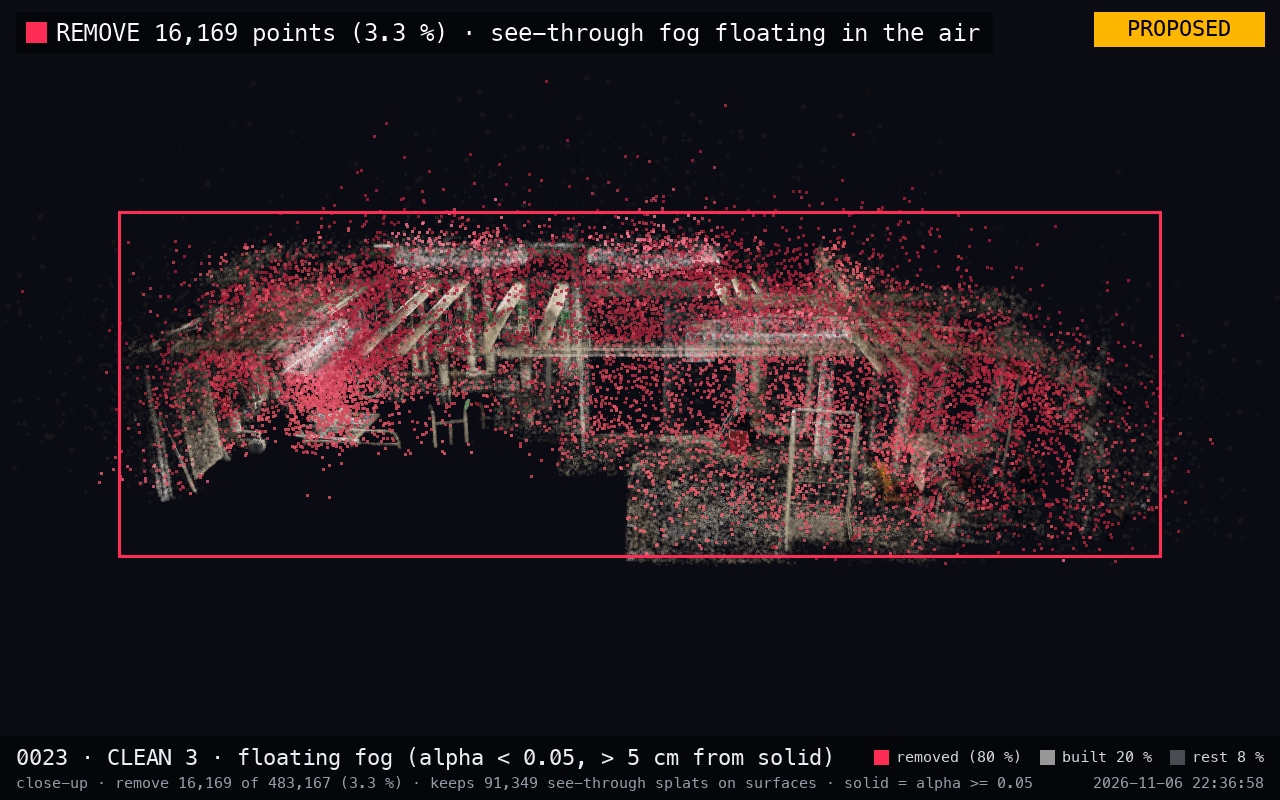
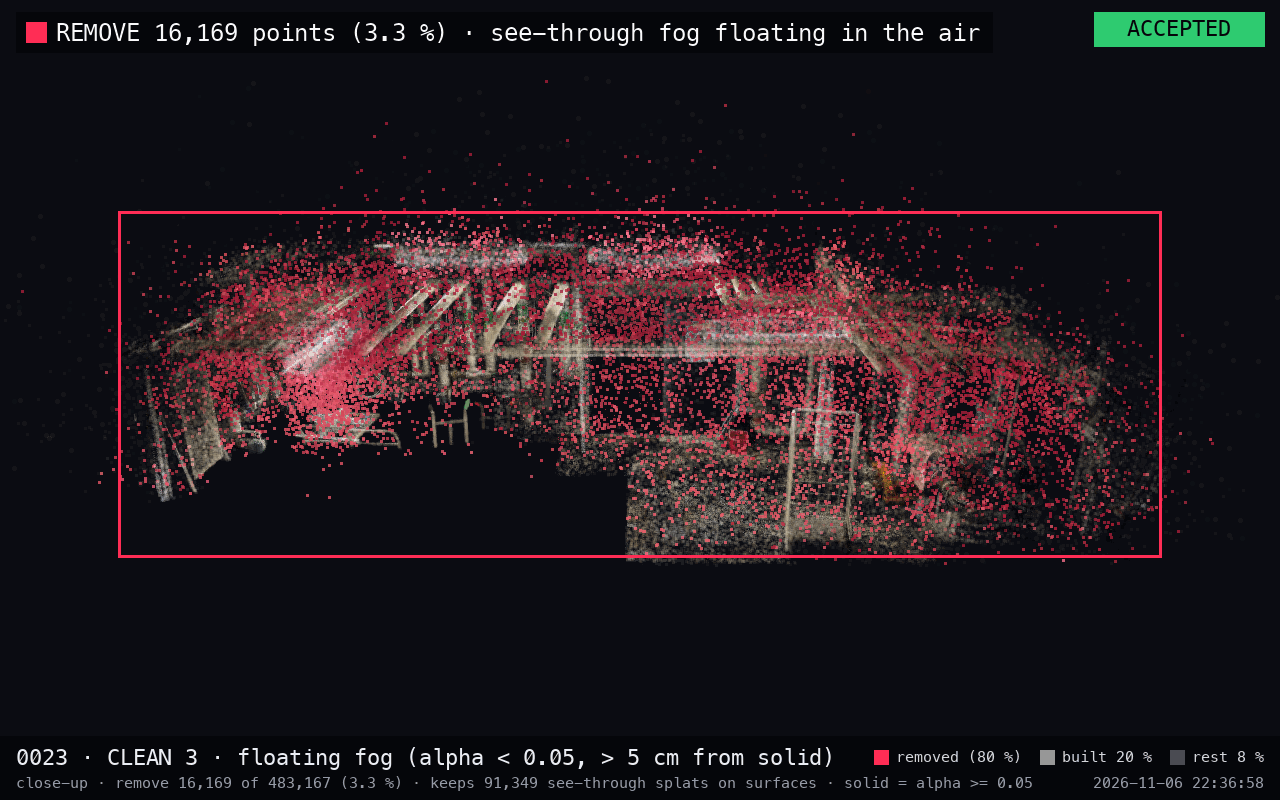
[pipe] 100 % progress images after every decision; CLEAN 3 accepted (state 0027-0028)
User: after every accept/reject, one clear picture with everything at 100 %
in true colour so the progress is visible; more images are better.
- build.state_images(): after each accept or reject, render all kept points
  (built parts + pool) at 100 % (nearest point wins) from the fixed outside
  camera and from the START front camera; once parts exist, also the built
  3D world (current.ply) alone. Recorded as 'state' steps.
- CLEAN 3 (floating fog) accepted: 16,169 removed, pool 466,998.

Changed region(s): [[0.8438, 0.0, 1.0, 0.0625]]

diff --git a/pipeline/build.py b/pipeline/build.py
@@ -300,6 +300,41 @@ def write_current(splats: np.ndarray, m: S.Manifest) -> int:
     return len(rows)
 
 
+STATE_RGB = (90, 160, 255)
+
+
+def state_images(splats: np.ndarray, m: S.Manifest, event: str) -> list[str]:
+    """Progress pictures after a decision, everything at 100 % opacity in true colour (nearest point wins):
+    the whole kept scan (built parts + pool) from the fixed outside camera and from the START front camera, and
+    once parts exist the built 3D world (current.ply) alone from outside. Recorded as a 'state' step."""
+    bmin, bmax = _bounds(m)
+    built = m.claimed_indices()
+    kept = np.concatenate([built, np.flatnonzero(m.pool_mask()).astype(np.uint32)])
+    start_cam = R.Camera(**{k: tuple(v) if isinstance(v, list) else v
+                            for k, v in m.data["steps"][0]["camera"].items()}) if "camera" in m.data["steps"][0] \
+        else R.overview_camera(bmin, bmax)
+    n_parts, n_clean = len(m.data["parts"]), len(m.data["removed"])
+    facts = f"{len(kept):,} points kept · {n_clean} cleanings · {n_parts} parts ({len(built):,} points in current.ply)"
+    views = [("kept scan, outside", R.outside_camera(bmin, bmax), kept),
+             ("kept scan, front (START camera)", start_cam, kept)]
+    if len(built):
+        views.append(("built 3D world = current.ply, outside", R.outside_camera(bmin, bmax), built))
+    images = []
+    for view, cam, idx in views:
+        sub = splats[idx]
+        frame = R.render([R.Layer(xyz_of(sub), rgb_of(sub), view, size_of(sub))], cam, R.WIDTH, R.HEIGHT - R.BANNER_H,
+                         edl_strength=0.5)
+        when = S.now_local()
+        index = S.next_image_index()
+        im = R.compose(frame, f"{index:04d} · STATE · {event}", f"{view} · 100 % · {facts}", [], when, "STATE",
+                       STATE_RGB)
+        images.append(S.rel(_save(im, index, when)))
+    m.add_step(index=int(Path(images[0]).name[:4]), kind="state", name="progress", status="info", images=images,
+               created_at=S.now_local().isoformat(timespec="seconds"), event=event, kept=len(kept),
+               built=len(built))
+    return images
+
+
 def cmd_decide(args: argparse.Namespace) -> int:
     if not S.PENDING.exists():
         log.error("nothing pending")
@@ -331,8 +366,13 @@ def cmd_decide(args: argparse.Namespace) -> int:
     S.PENDING.unlink()
     m.save()
     pool = int(m.pool_mask().sum())
-    print(f"{pending['index']:04d} {'ACCEPTED' if accept else 'REJECTED'} {pending['kind']}/{pending['name']}"
-          f" · pool now {pool:,} points")
+    word = "ACCEPTED" if accept else "REJECTED"
+    print(f"{pending['index']:04d} {word} {pending['kind']}/{pending['name']} · pool now {pool:,} points")
+    images = state_images(load_real_splats(args.ply, CACHE), m,
+                          f"after {pending['index']:04d} {word} ({pending['kind']} {pending['name']})")
+    m.save()
+    for img in images:
+        print(f"  state image {img}")
     return 0
 
 
